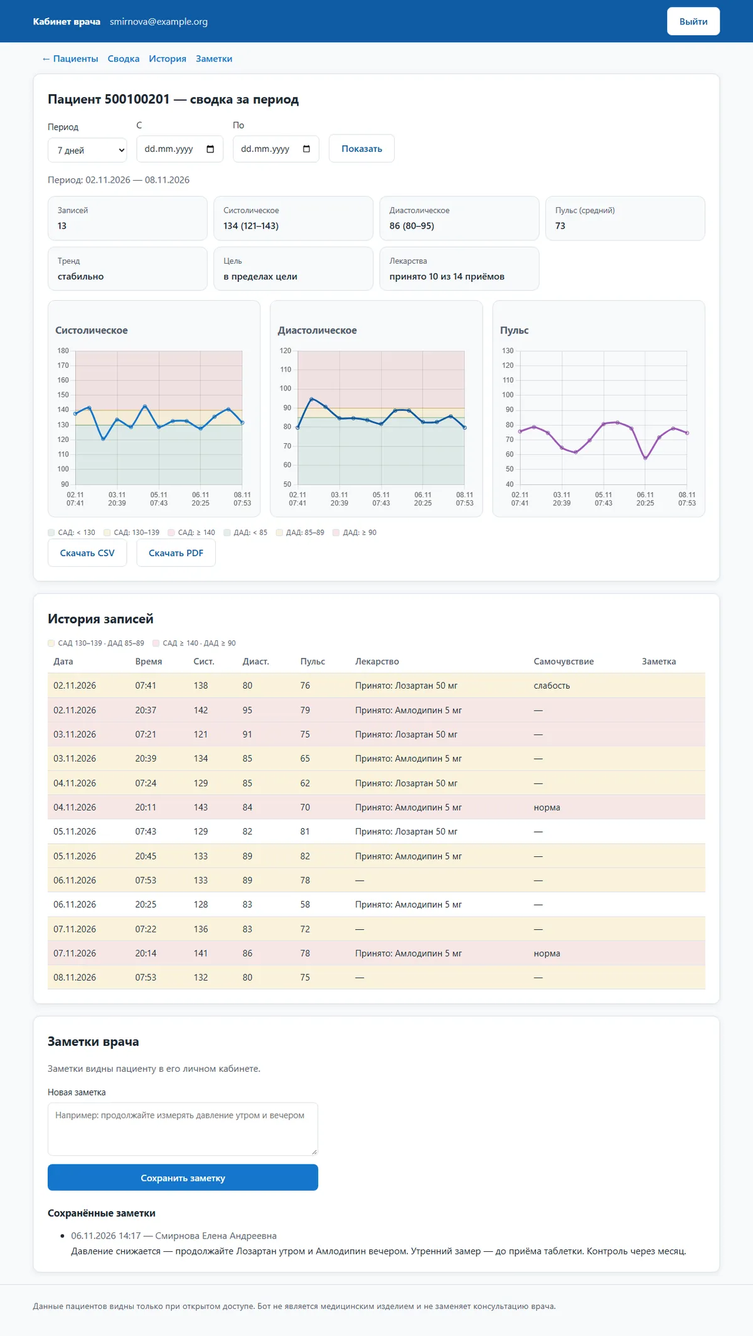
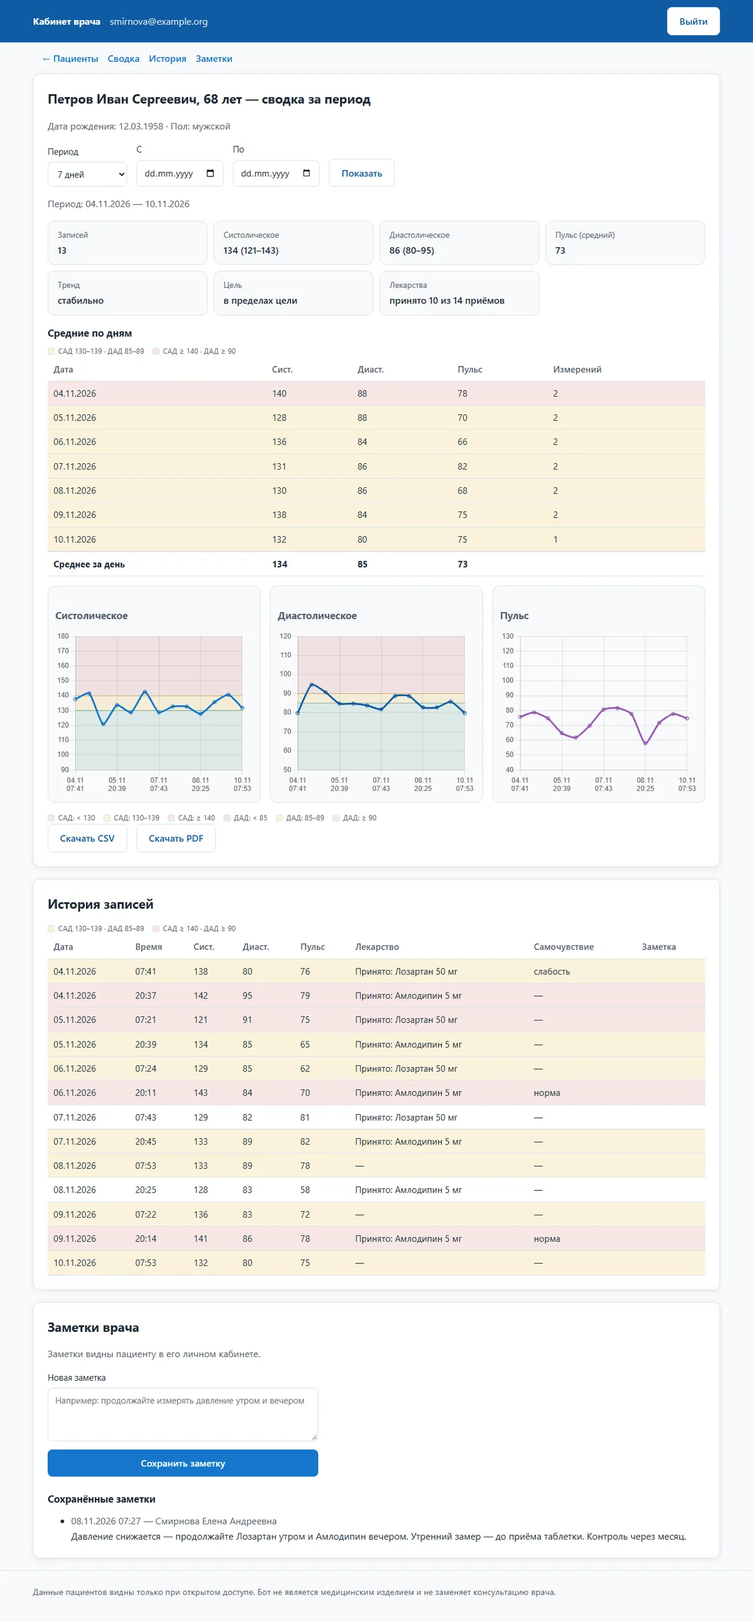
docs(landing): покажи средние по дням и свой период статистики
Три новых кадра: «Средние по дням» и «Свой период» в боте, «Средние по
дням» в личном кабинете. Пересняты статистика бота (кнопка «По дням») и
кадры кабинета врача (ФИО и возраст пациента, таблица по дням, подпись
PDF) — с `?v=0.5.3` против кеша. Руководство: свой период, «По дням»,
средние по дням в кабинете и у врача.

Changed region(s): [[0.0, 0.0, 1.0, 0.9925], [0.74, 0.1551, 0.7708, 0.1861], [0.4625, 0.093, 0.4933, 0.1241]]

diff --git a/web/landing/index.html b/web/landing/index.html
@@ -251,7 +251,7 @@
             <div class="w-12 h-12 rounded-2xl bg-blue-100 text-blue-600 flex items-center justify-center text-2xl mb-5 group-hover:scale-110 transition">📋</div>
             <h3 class="text-lg font-semibold text-slate-900 mb-2">Врач просит дневник, а вести некогда?</h3>
             <p class="text-slate-600 leading-relaxed">
-              Статистика считается сама: средние, минимумы и максимумы, тренд.
+              Статистика считается сама: средние за период и за каждый день, минимумы и максимумы, тренд.
               Экспорт в CSV — на выбор: 7 дней, 30 дней, всё время.
             </p>
           </article>
@@ -310,10 +310,13 @@
           <figure><button type="button" class="screen-open group block w-full text-left cursor-zoom-in focus:outline-none focus-visible:ring-4 focus-visible:ring-blue-300 rounded-[1.75rem]" data-full="img/screens/bot-saved.webp" data-title="Запись сохранена" data-text="Сразу видно, что записалось. Здесь же — исправить, добавить заметку, отметить лекарство и самочувствие."><div class="mx-auto max-w-[300px] rounded-[1.75rem] bg-slate-900 p-2 shadow-xl shadow-slate-900/20 transition duration-300 group-hover:-translate-y-1 group-hover:shadow-2xl"><div class="mx-auto mb-1.5 mt-0.5 h-1.5 w-16 rounded-full bg-slate-700" aria-hidden="true"></div><div class="relative overflow-hidden rounded-[1.25rem] bg-white max-h-[520px]"><img src="img/screens/bot-saved.webp" width="780" height="745" loading="lazy" decoding="async" alt="Запись сохранена" class="w-full h-auto"></div></div></button><figcaption class="mt-4 px-1"><h3 class="font-semibold text-slate-900">Запись сохранена</h3><p class="mt-1 text-sm text-slate-600 leading-relaxed">Сразу видно, что записалось. Здесь же — исправить, добавить заметку, отметить лекарство и самочувствие.</p></figcaption></figure>
           <figure><button type="button" class="screen-open group block w-full text-left cursor-zoom-in focus:outline-none focus-visible:ring-4 focus-visible:ring-blue-300 rounded-[1.75rem]" data-full="img/screens/bot-reminder.webp" data-title="Напоминание по расписанию" data-text="Бот напомнит измерить давление и перечислит лекарства этого времени. Отметить приём — одним нажатием."><div class="mx-auto max-w-[300px] rounded-[1.75rem] bg-slate-900 p-2 shadow-xl shadow-slate-900/20 transition duration-300 group-hover:-translate-y-1 group-hover:shadow-2xl"><div class="mx-auto mb-1.5 mt-0.5 h-1.5 w-16 rounded-full bg-slate-700" aria-hidden="true"></div><div class="relative overflow-hidden rounded-[1.25rem] bg-white max-h-[520px]"><img src="img/screens/bot-reminder.webp" width="780" height="664" loading="lazy" decoding="async" alt="Напоминание по расписанию" class="w-full h-auto"></div></div></button><figcaption class="mt-4 px-1"><h3 class="font-semibold text-slate-900">Напоминание по расписанию</h3><p class="mt-1 text-sm text-slate-600 leading-relaxed">Бот напомнит измерить давление и перечислит лекарства этого времени. Отметить приём — одним нажатием.</p></figcaption></figure>
           <figure><button type="button" class="screen-open group block w-full text-left cursor-zoom-in focus:outline-none focus-visible:ring-4 focus-visible:ring-blue-300 rounded-[1.75rem]" data-full="img/screens/bot-meds.webp" data-title="Какие лекарства приняли" data-text="Отметьте принятые таблетки. Пометка «· сегодня ✓» показывает, что уже принято сегодня."><div class="mx-auto max-w-[300px] rounded-[1.75rem] bg-slate-900 p-2 shadow-xl shadow-slate-900/20 transition duration-300 group-hover:-translate-y-1 group-hover:shadow-2xl"><div class="mx-auto mb-1.5 mt-0.5 h-1.5 w-16 rounded-full bg-slate-700" aria-hidden="true"></div><div class="relative overflow-hidden rounded-[1.25rem] bg-white max-h-[520px]"><img src="img/screens/bot-meds.webp" width="780" height="813" loading="lazy" decoding="async" alt="Какие лекарства приняли" class="w-full h-auto"></div></div></button><figcaption class="mt-4 px-1"><h3 class="font-semibold text-slate-900">Какие лекарства приняли</h3><p class="mt-1 text-sm text-slate-600 leading-relaxed">Отметьте принятые таблетки. Пометка «· сегодня ✓» показывает, что уже принято сегодня.</p></figcaption></figure>
-          <figure><button type="button" class="screen-open group block w-full text-left cursor-zoom-in focus:outline-none focus-visible:ring-4 focus-visible:ring-blue-300 rounded-[1.75rem]" data-full="img/screens/bot-stats.webp?v=0.4.16" data-title="Статистика за 7 дней" data-text="Гистограмма по дням: верхнее давление — вверх, нижнее — вниз, пульс — на линии, цвет — зона давления. Под ней — средние, тренд, цель и приём лекарств."><div class="mx-auto max-w-[300px] rounded-[1.75rem] bg-slate-900 p-2 shadow-xl shadow-slate-900/20 transition duration-300 group-hover:-translate-y-1 group-hover:shadow-2xl"><div class="mx-auto mb-1.5 mt-0.5 h-1.5 w-16 rounded-full bg-slate-700" aria-hidden="true"></div><div class="relative overflow-hidden rounded-[1.25rem] bg-white max-h-[520px]"><img src="img/screens/bot-stats.webp?v=0.4.16" width="780" height="1299" loading="lazy" decoding="async" alt="Статистика за 7 дней" class="w-full h-auto"></div></div></button><figcaption class="mt-4 px-1"><h3 class="font-semibold text-slate-900">Статистика за 7 дней</h3><p class="mt-1 text-sm text-slate-600 leading-relaxed">Гистограмма по дням: верхнее давление — вверх, нижнее — вниз, пульс — на линии, цвет — зона давления. Под ней — средние, тренд, цель и приём лекарств.</p></figcaption></figure>
+          <figure><button type="button" class="screen-open group block w-full text-left cursor-zoom-in focus:outline-none focus-visible:ring-4 focus-visible:ring-blue-300 rounded-[1.75rem]" data-full="img/screens/bot-stats.webp?v=0.5.3" data-title="Статистика за 7 дней" data-text="Гистограмма по дням: верхнее давление — вверх, нижнее — вниз, пульс — на линии, цвет — зона давления. Под ней — средние, тренд, цель и приём лекарств."><div class="mx-auto max-w-[300px] rounded-[1.75rem] bg-slate-900 p-2 shadow-xl shadow-slate-900/20 transition duration-300 group-hover:-translate-y-1 group-hover:shadow-2xl"><div class="mx-auto mb-1.5 mt-0.5 h-1.5 w-16 rounded-full bg-slate-700" aria-hidden="true"></div><div class="relative overflow-hidden rounded-[1.25rem] bg-white max-h-[520px]"><img src="img/screens/bot-stats.webp?v=0.5.3" width="780" height="1380" loading="lazy" decoding="async" alt="Статистика за 7 дней" class="w-full h-auto"></div></div></button><figcaption class="mt-4 px-1"><h3 class="font-semibold text-slate-900">Статистика за 7 дней</h3><p class="mt-1 text-sm text-slate-600 leading-relaxed">Гистограмма по дням: верхнее давление — вверх, нижнее — вниз, пульс — на линии, цвет — зона давления. Под ней — средние, тренд, цель и приём лекарств.</p></figcaption></figure>
+          <figure><button type="button" class="screen-open group block w-full text-left cursor-zoom-in focus:outline-none focus-visible:ring-4 focus-visible:ring-blue-300 rounded-[1.75rem]" data-full="img/screens/bot-daily.webp" data-title="Средние по дням" data-text="Кнопка «По дням» под статистикой: среднее давление и пульс за каждый день, цветной кружок — зона давления, внизу — среднее за день."><div class="mx-auto max-w-[300px] rounded-[1.75rem] bg-slate-900 p-2 shadow-xl shadow-slate-900/20 transition duration-300 group-hover:-translate-y-1 group-hover:shadow-2xl"><div class="mx-auto mb-1.5 mt-0.5 h-1.5 w-16 rounded-full bg-slate-700" aria-hidden="true"></div><div class="relative overflow-hidden rounded-[1.25rem] bg-white max-h-[520px]"><img src="img/screens/bot-daily.webp" width="780" height="624" loading="lazy" decoding="async" alt="Средние по дням" class="w-full h-auto"></div></div></button><figcaption class="mt-4 px-1"><h3 class="font-semibold text-slate-900">Средние по дням</h3><p class="mt-1 text-sm text-slate-600 leading-relaxed">Кнопка «По дням» под статистикой: среднее давление и пульс за каждый день, цветной кружок — зона давления, внизу — среднее за день.</p></figcaption></figure>
+          <figure><button type="button" class="screen-open group block w-full text-left cursor-zoom-in focus:outline-none focus-visible:ring-4 focus-visible:ring-blue-300 rounded-[1.75rem]" data-full="img/screens/bot-calendar.webp" data-title="Свой период" data-text="Кроме 7 и 30 дней — любой период до 31 дня: первый и последний день выбираются в календаре кнопками."><div class="mx-auto max-w-[300px] rounded-[1.75rem] bg-slate-900 p-2 shadow-xl shadow-slate-900/20 transition duration-300 group-hover:-translate-y-1 group-hover:shadow-2xl"><div class="mx-auto mb-1.5 mt-0.5 h-1.5 w-16 rounded-full bg-slate-700" aria-hidden="true"></div><div class="relative overflow-hidden rounded-[1.25rem] bg-white max-h-[520px]"><img src="img/screens/bot-calendar.webp" width="780" height="989" loading="lazy" decoding="async" alt="Свой период" class="w-full h-auto"></div></div></button><figcaption class="mt-4 px-1"><h3 class="font-semibold text-slate-900">Свой период</h3><p class="mt-1 text-sm text-slate-600 leading-relaxed">Кроме 7 и 30 дней — любой период до 31 дня: первый и последний день выбираются в календаре кнопками.</p></figcaption></figure>
         </div>
         <div class="mt-10 grid gap-x-8 gap-y-12 md:grid-cols-2 hidden" role="tabpanel" id="screens-panel-cabinet" aria-labelledby="screens-tab-cabinet" hidden>
           <figure class="md:col-span-2"><button type="button" class="screen-open group block w-full text-left cursor-zoom-in focus:outline-none focus-visible:ring-4 focus-visible:ring-blue-300 rounded-[1.75rem]" data-full="img/screens/cabinet-charts.webp" data-title="Графики с цветными зонами" data-text="Систолическое, диастолическое и пульс — на трёх графиках. Цветные зоны помогают сразу увидеть повышенные значения."><div class="overflow-hidden rounded-2xl border border-slate-200 bg-white shadow-lg shadow-slate-900/10 transition duration-300 group-hover:-translate-y-1 group-hover:shadow-xl"><div class="flex items-center gap-2 border-b border-slate-100 bg-slate-50 px-3 py-2" aria-hidden="true"><span class="h-2.5 w-2.5 rounded-full bg-rose-300"></span><span class="h-2.5 w-2.5 rounded-full bg-amber-300"></span><span class="h-2.5 w-2.5 rounded-full bg-emerald-300"></span><span class="ml-2 flex-1 truncate rounded-md bg-white border border-slate-200 px-2 py-0.5 text-[11px] text-slate-400">🔒 cabinet.electroman.by</span></div><div class="relative overflow-hidden max-h-[820px] bg-white"><img src="img/screens/cabinet-charts.webp" width="1168" height="863" loading="lazy" decoding="async" alt="Графики с цветными зонами" class="w-full h-auto"></div></div></button><figcaption class="mt-4 px-1"><h3 class="font-semibold text-slate-900">Графики с цветными зонами</h3><p class="mt-1 text-sm text-slate-600 leading-relaxed">Систолическое, диастолическое и пульс — на трёх графиках. Цветные зоны помогают сразу увидеть повышенные значения.</p></figcaption></figure>
+          <figure class="md:col-span-2"><button type="button" class="screen-open group block w-full text-left cursor-zoom-in focus:outline-none focus-visible:ring-4 focus-visible:ring-blue-300 rounded-[1.75rem]" data-full="img/screens/cabinet-daily.webp" data-title="Средние по дням" data-text="Каждый день периода отдельной строкой: дни без замеров видны сразу, повышенные значения подсвечены. Внизу — среднее за день."><div class="overflow-hidden rounded-2xl border border-slate-200 bg-white shadow-lg shadow-slate-900/10 transition duration-300 group-hover:-translate-y-1 group-hover:shadow-xl"><div class="flex items-center gap-2 border-b border-slate-100 bg-slate-50 px-3 py-2" aria-hidden="true"><span class="h-2.5 w-2.5 rounded-full bg-rose-300"></span><span class="h-2.5 w-2.5 rounded-full bg-amber-300"></span><span class="h-2.5 w-2.5 rounded-full bg-emerald-300"></span><span class="ml-2 flex-1 truncate rounded-md bg-white border border-slate-200 px-2 py-0.5 text-[11px] text-slate-400">🔒 cabinet.electroman.by</span></div><div class="relative overflow-hidden max-h-[820px] bg-white"><img src="img/screens/cabinet-daily.webp" width="1118" height="428" loading="lazy" decoding="async" alt="Средние по дням" class="w-full h-auto"></div></div></button><figcaption class="mt-4 px-1"><h3 class="font-semibold text-slate-900">Средние по дням</h3><p class="mt-1 text-sm text-slate-600 leading-relaxed">Каждый день периода отдельной строкой: дни без замеров видны сразу, повышенные значения подсвечены. Внизу — среднее за день.</p></figcaption></figure>
           <figure class="md:col-span-2"><button type="button" class="screen-open group block w-full text-left cursor-zoom-in focus:outline-none focus-visible:ring-4 focus-visible:ring-blue-300 rounded-[1.75rem]" data-full="img/screens/cabinet-history.webp" data-title="История записей" data-text="Повышенные значения подсвечены жёлтым и красным. Рядом — принятые лекарства и самочувствие."><div class="overflow-hidden rounded-2xl border border-slate-200 bg-white shadow-lg shadow-slate-900/10 transition duration-300 group-hover:-translate-y-1 group-hover:shadow-xl"><div class="flex items-center gap-2 border-b border-slate-100 bg-slate-50 px-3 py-2" aria-hidden="true"><span class="h-2.5 w-2.5 rounded-full bg-rose-300"></span><span class="h-2.5 w-2.5 rounded-full bg-amber-300"></span><span class="h-2.5 w-2.5 rounded-full bg-emerald-300"></span><span class="ml-2 flex-1 truncate rounded-md bg-white border border-slate-200 px-2 py-0.5 text-[11px] text-slate-400">🔒 cabinet.electroman.by</span></div><div class="relative overflow-hidden max-h-[820px] bg-white"><img src="img/screens/cabinet-history.webp" width="1200" height="772" loading="lazy" decoding="async" alt="История записей" class="w-full h-auto"></div></div></button><figcaption class="mt-4 px-1"><h3 class="font-semibold text-slate-900">История записей</h3><p class="mt-1 text-sm text-slate-600 leading-relaxed">Повышенные значения подсвечены жёлтым и красным. Рядом — принятые лекарства и самочувствие.</p></figcaption></figure>
           <figure class=""><button type="button" class="screen-open group block w-full text-left cursor-zoom-in focus:outline-none focus-visible:ring-4 focus-visible:ring-blue-300 rounded-[1.75rem]" data-full="img/screens/cabinet-add-form.webp" data-title="Добавить измерение" data-text="Запись за любую прошедшую дату. Отметьте «Принял лекарство» и выберите, какие именно: лекарства ближайшего по времени приёма отмечены заранее."><div class="overflow-hidden rounded-2xl border border-slate-200 bg-white shadow-lg shadow-slate-900/10 transition duration-300 group-hover:-translate-y-1 group-hover:shadow-xl"><div class="flex items-center gap-2 border-b border-slate-100 bg-slate-50 px-3 py-2" aria-hidden="true"><span class="h-2.5 w-2.5 rounded-full bg-rose-300"></span><span class="h-2.5 w-2.5 rounded-full bg-amber-300"></span><span class="h-2.5 w-2.5 rounded-full bg-emerald-300"></span><span class="ml-2 flex-1 truncate rounded-md bg-white border border-slate-200 px-2 py-0.5 text-[11px] text-slate-400">🔒 cabinet.electroman.by</span></div><div class="relative overflow-hidden max-h-[440px] bg-white"><img src="img/screens/cabinet-add-form.webp" width="640" height="784" loading="lazy" decoding="async" alt="Добавить измерение" class="w-full h-auto"><div class="pointer-events-none absolute inset-x-0 bottom-0 h-16 bg-gradient-to-t from-white to-transparent" aria-hidden="true"></div></div></div></button><figcaption class="mt-4 px-1"><h3 class="font-semibold text-slate-900">Добавить измерение</h3><p class="mt-1 text-sm text-slate-600 leading-relaxed">Запись за любую прошедшую дату. Отметьте «Принял лекарство» и выберите, какие именно: лекарства ближайшего по времени приёма отмечены заранее.</p></figcaption></figure>
           <figure class=""><button type="button" class="screen-open group block w-full text-left cursor-zoom-in focus:outline-none focus-visible:ring-4 focus-visible:ring-blue-300 rounded-[1.75rem]" data-full="img/screens/cabinet-medications.webp" data-title="Лекарства" data-text="Список с дозировкой и временем приёма: утро, обед, вечер или «на случай кризиса»."><div class="overflow-hidden rounded-2xl border border-slate-200 bg-white shadow-lg shadow-slate-900/10 transition duration-300 group-hover:-translate-y-1 group-hover:shadow-xl"><div class="flex items-center gap-2 border-b border-slate-100 bg-slate-50 px-3 py-2" aria-hidden="true"><span class="h-2.5 w-2.5 rounded-full bg-rose-300"></span><span class="h-2.5 w-2.5 rounded-full bg-amber-300"></span><span class="h-2.5 w-2.5 rounded-full bg-emerald-300"></span><span class="ml-2 flex-1 truncate rounded-md bg-white border border-slate-200 px-2 py-0.5 text-[11px] text-slate-400">🔒 cabinet.electroman.by</span></div><div class="relative overflow-hidden max-h-[440px] bg-white"><img src="img/screens/cabinet-medications.webp" width="1168" height="701" loading="lazy" decoding="async" alt="Лекарства" class="w-full h-auto"></div></div></button><figcaption class="mt-4 px-1"><h3 class="font-semibold text-slate-900">Лекарства</h3><p class="mt-1 text-sm text-slate-600 leading-relaxed">Список с дозировкой и временем приёма: утро, обед, вечер или «на случай кризиса».</p></figcaption></figure>
@@ -321,9 +324,9 @@
           <figure><button type="button" class="screen-open group block w-full text-left cursor-zoom-in focus:outline-none focus-visible:ring-4 focus-visible:ring-blue-300 rounded-[1.75rem]" data-full="img/screens/cabinet-history-mobile.webp" data-title="С телефона" data-text="Кабинет удобен и на смартфоне: история записей — карточками."><div class="mx-auto max-w-[300px] rounded-[1.75rem] bg-slate-900 p-2 shadow-xl shadow-slate-900/20 transition duration-300 group-hover:-translate-y-1 group-hover:shadow-2xl"><div class="mx-auto mb-1.5 mt-0.5 h-1.5 w-16 rounded-full bg-slate-700" aria-hidden="true"></div><div class="relative overflow-hidden rounded-[1.25rem] bg-white max-h-[520px]"><img src="img/screens/cabinet-history-mobile.webp" width="780" height="2428" loading="lazy" decoding="async" alt="С телефона" class="w-full h-auto"><div class="pointer-events-none absolute inset-x-0 bottom-0 h-16 bg-gradient-to-t from-white to-transparent" aria-hidden="true"></div></div></div></button><figcaption class="mt-4 px-1"><h3 class="font-semibold text-slate-900">С телефона</h3><p class="mt-1 text-sm text-slate-600 leading-relaxed">Кабинет удобен и на смартфоне: история записей — карточками.</p></figcaption></figure>
         </div>
         <div class="mt-10 grid gap-x-8 gap-y-12 md:grid-cols-2 hidden" role="tabpanel" id="screens-panel-doctor" aria-labelledby="screens-tab-doctor" hidden>
-          <figure class=""><button type="button" class="screen-open group block w-full text-left cursor-zoom-in focus:outline-none focus-visible:ring-4 focus-visible:ring-blue-300 rounded-[1.75rem]" data-full="img/screens/doctor-list.webp" data-title="Пациенты" data-text="Врач видит только тех, кто сам открыл ему доступ."><div class="overflow-hidden rounded-2xl border border-slate-200 bg-white shadow-lg shadow-slate-900/10 transition duration-300 group-hover:-translate-y-1 group-hover:shadow-xl"><div class="flex items-center gap-2 border-b border-slate-100 bg-slate-50 px-3 py-2" aria-hidden="true"><span class="h-2.5 w-2.5 rounded-full bg-rose-300"></span><span class="h-2.5 w-2.5 rounded-full bg-amber-300"></span><span class="h-2.5 w-2.5 rounded-full bg-emerald-300"></span><span class="ml-2 flex-1 truncate rounded-md bg-white border border-slate-200 px-2 py-0.5 text-[11px] text-slate-400">🔒 cabinet.electroman.by</span></div><div class="overflow-hidden bg-white"><img src="img/screens/doctor-list.webp" width="1168" height="153" loading="lazy" decoding="async" alt="Пациенты" class="w-full h-auto"></div></div></button><figcaption class="mt-4 px-1"><h3 class="font-semibold text-slate-900">Пациенты</h3><p class="mt-1 text-sm text-slate-600 leading-relaxed">Врач видит только тех, кто сам открыл ему доступ.</p></figcaption></figure>
-          <figure class="md:col-span-2"><button type="button" class="screen-open group block w-full text-left cursor-zoom-in focus:outline-none focus-visible:ring-4 focus-visible:ring-blue-300 rounded-[1.75rem]" data-full="img/screens/doctor-card.webp" data-title="Карточка пациента" data-text="Сводка, графики, история с подсветкой и заметки врача — пациент видит их в своём кабинете. Менять записи пациента врач не может."><div class="overflow-hidden rounded-2xl border border-slate-200 bg-white shadow-lg shadow-slate-900/10 transition duration-300 group-hover:-translate-y-1 group-hover:shadow-xl"><div class="flex items-center gap-2 border-b border-slate-100 bg-slate-50 px-3 py-2" aria-hidden="true"><span class="h-2.5 w-2.5 rounded-full bg-rose-300"></span><span class="h-2.5 w-2.5 rounded-full bg-amber-300"></span><span class="h-2.5 w-2.5 rounded-full bg-emerald-300"></span><span class="ml-2 flex-1 truncate rounded-md bg-white border border-slate-200 px-2 py-0.5 text-[11px] text-slate-400">🔒 cabinet.electroman.by</span></div><div class="relative overflow-hidden max-h-[820px] bg-white"><img src="img/screens/doctor-card.webp" width="1200" height="2128" loading="lazy" decoding="async" alt="Карточка пациента" class="w-full h-auto"><div class="pointer-events-none absolute inset-x-0 bottom-0 h-16 bg-gradient-to-t from-white to-transparent" aria-hidden="true"></div></div></div></button><figcaption class="mt-4 px-1"><h3 class="font-semibold text-slate-900">Карточка пациента</h3><p class="mt-1 text-sm text-slate-600 leading-relaxed">Сводка, графики, история с подсветкой и заметки врача — пациент видит их в своём кабинете. Менять записи пациента врач не может.</p></figcaption></figure>
-          <figure class=""><button type="button" class="screen-open group block w-full text-left cursor-zoom-in focus:outline-none focus-visible:ring-4 focus-visible:ring-blue-300 rounded-[1.75rem]" data-full="img/screens/doctor-pdf.webp" data-title="PDF-отчёт" data-text="Средние значения и таблица измерений за период — распечатать или приложить к карте."><div class="overflow-hidden rounded-2xl border border-slate-200 bg-white shadow-lg shadow-slate-900/10 transition duration-300 group-hover:-translate-y-1 group-hover:shadow-xl"><div class="flex items-center gap-2 border-b border-slate-100 bg-slate-50 px-3 py-2" aria-hidden="true"><span class="h-2.5 w-2.5 rounded-full bg-rose-300"></span><span class="h-2.5 w-2.5 rounded-full bg-amber-300"></span><span class="h-2.5 w-2.5 rounded-full bg-emerald-300"></span><span class="ml-2 flex-1 truncate rounded-md bg-white border border-slate-200 px-2 py-0.5 text-[11px] text-slate-400">🔒 cabinet.electroman.by</span></div><div class="relative overflow-hidden max-h-[440px] bg-white"><img src="img/screens/doctor-pdf.webp" width="1200" height="849" loading="lazy" decoding="async" alt="PDF-отчёт" class="w-full h-auto"><div class="pointer-events-none absolute inset-x-0 bottom-0 h-16 bg-gradient-to-t from-white to-transparent" aria-hidden="true"></div></div></div></button><figcaption class="mt-4 px-1"><h3 class="font-semibold text-slate-900">PDF-отчёт</h3><p class="mt-1 text-sm text-slate-600 leading-relaxed">Средние значения и таблица измерений за период — распечатать или приложить к карте.</p></figcaption></figure>
+          <figure class=""><button type="button" class="screen-open group block w-full text-left cursor-zoom-in focus:outline-none focus-visible:ring-4 focus-visible:ring-blue-300 rounded-[1.75rem]" data-full="img/screens/doctor-list.webp?v=0.5.3" data-title="Пациенты" data-text="Врач видит только тех, кто сам открыл ему доступ, — с ФИО, датой рождения и возрастом."><div class="overflow-hidden rounded-2xl border border-slate-200 bg-white shadow-lg shadow-slate-900/10 transition duration-300 group-hover:-translate-y-1 group-hover:shadow-xl"><div class="flex items-center gap-2 border-b border-slate-100 bg-slate-50 px-3 py-2" aria-hidden="true"><span class="h-2.5 w-2.5 rounded-full bg-rose-300"></span><span class="h-2.5 w-2.5 rounded-full bg-amber-300"></span><span class="h-2.5 w-2.5 rounded-full bg-emerald-300"></span><span class="ml-2 flex-1 truncate rounded-md bg-white border border-slate-200 px-2 py-0.5 text-[11px] text-slate-400">🔒 cabinet.electroman.by</span></div><div class="overflow-hidden bg-white"><img src="img/screens/doctor-list.webp?v=0.5.3" width="1168" height="178" loading="lazy" decoding="async" alt="Пациенты" class="w-full h-auto"></div></div></button><figcaption class="mt-4 px-1"><h3 class="font-semibold text-slate-900">Пациенты</h3><p class="mt-1 text-sm text-slate-600 leading-relaxed">Врач видит только тех, кто сам открыл ему доступ, — с ФИО, датой рождения и возрастом.</p></figcaption></figure>
+          <figure class="md:col-span-2"><button type="button" class="screen-open group block w-full text-left cursor-zoom-in focus:outline-none focus-visible:ring-4 focus-visible:ring-blue-300 rounded-[1.75rem]" data-full="img/screens/doctor-card.webp?v=0.5.3" data-title="Карточка пациента" data-text="Сводка, средние по дням, графики, история с подсветкой и заметки врача — пациент видит их в своём кабинете. Менять записи пациента врач не может."><div class="overflow-hidden rounded-2xl border border-slate-200 bg-white shadow-lg shadow-slate-900/10 transition duration-300 group-hover:-translate-y-1 group-hover:shadow-xl"><div class="flex items-center gap-2 border-b border-slate-100 bg-slate-50 px-3 py-2" aria-hidden="true"><span class="h-2.5 w-2.5 rounded-full bg-rose-300"></span><span class="h-2.5 w-2.5 rounded-full bg-amber-300"></span><span class="h-2.5 w-2.5 rounded-full bg-emerald-300"></span><span class="ml-2 flex-1 truncate rounded-md bg-white border border-slate-200 px-2 py-0.5 text-[11px] text-slate-400">🔒 cabinet.electroman.by</span></div><div class="relative overflow-hidden max-h-[820px] bg-white"><img src="img/screens/doctor-card.webp?v=0.5.3" width="1200" height="2584" loading="lazy" decoding="async" alt="Карточка пациента" class="w-full h-auto"><div class="pointer-events-none absolute inset-x-0 bottom-0 h-16 bg-gradient-to-t from-white to-transparent" aria-hidden="true"></div></div></div></button><figcaption class="mt-4 px-1"><h3 class="font-semibold text-slate-900">Карточка пациента</h3><p class="mt-1 text-sm text-slate-600 leading-relaxed">Сводка, средние по дням, графики, история с подсветкой и заметки врача — пациент видит их в своём кабинете. Менять записи пациента врач не может.</p></figcaption></figure>
+          <figure class=""><button type="button" class="screen-open group block w-full text-left cursor-zoom-in focus:outline-none focus-visible:ring-4 focus-visible:ring-blue-300 rounded-[1.75rem]" data-full="img/screens/doctor-pdf.webp?v=0.5.3" data-title="PDF-отчёт" data-text="Средние значения и таблица измерений за период — распечатать или приложить к карте."><div class="overflow-hidden rounded-2xl border border-slate-200 bg-white shadow-lg shadow-slate-900/10 transition duration-300 group-hover:-translate-y-1 group-hover:shadow-xl"><div class="flex items-center gap-2 border-b border-slate-100 bg-slate-50 px-3 py-2" aria-hidden="true"><span class="h-2.5 w-2.5 rounded-full bg-rose-300"></span><span class="h-2.5 w-2.5 rounded-full bg-amber-300"></span><span class="h-2.5 w-2.5 rounded-full bg-emerald-300"></span><span class="ml-2 flex-1 truncate rounded-md bg-white border border-slate-200 px-2 py-0.5 text-[11px] text-slate-400">🔒 cabinet.electroman.by</span></div><div class="relative overflow-hidden max-h-[440px] bg-white"><img src="img/screens/doctor-pdf.webp?v=0.5.3" width="1200" height="849" loading="lazy" decoding="async" alt="PDF-отчёт" class="w-full h-auto"><div class="pointer-events-none absolute inset-x-0 bottom-0 h-16 bg-gradient-to-t from-white to-transparent" aria-hidden="true"></div></div></div></button><figcaption class="mt-4 px-1"><h3 class="font-semibold text-slate-900">PDF-отчёт</h3><p class="mt-1 text-sm text-slate-600 leading-relaxed">Средние значения и таблица измерений за период — распечатать или приложить к карте.</p></figcaption></figure>
           <figure><button type="button" class="screen-open group block w-full text-left cursor-zoom-in focus:outline-none focus-visible:ring-4 focus-visible:ring-blue-300 rounded-[1.75rem]" data-full="img/screens/doctor-card-mobile.webp" data-title="Кабинет врача с телефона" data-text="Сводку и графики удобно смотреть со смартфона."><div class="mx-auto max-w-[300px] rounded-[1.75rem] bg-slate-900 p-2 shadow-xl shadow-slate-900/20 transition duration-300 group-hover:-translate-y-1 group-hover:shadow-2xl"><div class="mx-auto mb-1.5 mt-0.5 h-1.5 w-16 rounded-full bg-slate-700" aria-hidden="true"></div><div class="relative overflow-hidden rounded-[1.25rem] bg-white max-h-[520px]"><img src="img/screens/doctor-card-mobile.webp" width="780" height="1829" loading="lazy" decoding="async" alt="Кабинет врача с телефона" class="w-full h-auto"><div class="pointer-events-none absolute inset-x-0 bottom-0 h-16 bg-gradient-to-t from-white to-transparent" aria-hidden="true"></div></div></div></button><figcaption class="mt-4 px-1"><h3 class="font-semibold text-slate-900">Кабинет врача с телефона</h3><p class="mt-1 text-sm text-slate-600 leading-relaxed">Сводку и графики удобно смотреть со смартфона.</p></figcaption></figure>
         </div>
         <p class="mt-10 text-center text-sm text-slate-500">Нажмите на экран, чтобы рассмотреть целиком.</p>
@@ -577,7 +580,8 @@
             <div class="px-6 pb-6 space-y-3 text-slate-600 leading-relaxed">
               <ul class="space-y-2">
                 <li class="flex gap-2.5"><span class="text-blue-600 font-bold mt-0.5" aria-hidden="true">•</span><span><b class="text-slate-800">«Дневник за сегодня»</b> — все записи за день: время, давление, пульс, отметки о лекарствах, самочувствие и заметки.</span></li>
-                <li class="flex gap-2.5"><span class="text-blue-600 font-bold mt-0.5" aria-hidden="true">•</span><span><b class="text-slate-800">«Статистика»</b> — за 7 или 30 дней: гистограмма по дням (верхнее давление — вверх, нижнее — вниз, пульс — на средней линии, цвет — зона давления) и под ней сводка: среднее давление, минимум и максимум, количество измерений, тренд (если измерений меньше четырёх — «мало данных для тренда»), сравнение с целью и приём лекарств.</span></li>
+                <li class="flex gap-2.5"><span class="text-blue-600 font-bold mt-0.5" aria-hidden="true">•</span><span><b class="text-slate-800">«Статистика»</b> — за 7 дней, 30 дней или свой период («📆 Свой период»: до 31 дня, первый и последний день выбираются в календаре): гистограмма по дням (верхнее давление — вверх, нижнее — вниз, пульс — на средней линии, цвет — зона давления) и под ней сводка: среднее давление, минимум и максимум, количество измерений, тренд (если измерений меньше четырёх — «мало данных для тренда»), сравнение с целью и приём лекарств.</span></li>
+                <li class="flex gap-2.5"><span class="text-blue-600 font-bold mt-0.5" aria-hidden="true">•</span><span><b class="text-slate-800">«📅 По дням»</b> — кнопка под статистикой: среднее давление и пульс за каждый день с цветной отметкой зоны и итог «Среднее за день» — среднее из дневных средних, где каждый день весит одинаково, сколько бы раз вы ни мерили.</span></li>
                 <li class="flex gap-2.5"><span class="text-blue-600 font-bold mt-0.5" aria-hidden="true">•</span><span><b class="text-slate-800">«Экспорт CSV»</b> — файл за 7 дней, 30 дней или всё время (не больше 5000 записей: если их больше, бот предложит выбрать 7 или 30 дней). Открывается в Excel: можно показать врачу, распечатать или приложить к письму. Отдельным файлом выгружаются и приёмы лекарств.</span></li>
                 <li class="flex gap-2.5"><span class="text-blue-600 font-bold mt-0.5" aria-hidden="true">•</span><span><b class="text-slate-800">«Экспорт PDF»</b> — отчёт за 7 дней, 30 дней или всё время: сводка и таблица записей с цветом зон — удобно распечатать для врача.</span></li>
               </ul>
@@ -608,7 +612,7 @@
                   Войти в личный кабинет
                 </a>
               </p>
-              <p>Внутри кабинета: история записей с фильтрами по дате, график давления, сводка и экспорт CSV, управление лекарствами и настройки напоминаний. На графиках сводки — цветные зоны: зелёная (норма), жёлтая (повышенное) и красная (высокое). Это ориентир, а не диагноз: норму определяет врач.</p>
+              <p>Внутри кабинета: история записей с фильтрами по дате (7 дней, 30 дней или свой период), график давления, сводка со средними по дням и экспорт CSV и PDF, управление лекарствами и настройки напоминаний. На графиках сводки — цветные зоны: зелёная (норма), жёлтая (повышенное) и красная (высокое). Это ориентир, а не диагноз: норму определяет врач.</p>
             </div>
           </details>
 
@@ -626,7 +630,7 @@
               <ul class="space-y-2">
                 <li class="flex gap-2.5"><span class="text-blue-600 font-bold mt-0.5" aria-hidden="true">•</span><span>Перед приглашением врача бот попросит согласие на то, чтобы врач видел ваши записи, и ваши ФИО, дату рождения и пол — по ним врач узнает вас в своём кабинете. Эти данные видит только приглашённый врач.</span></li>
                 <li class="flex gap-2.5"><span class="text-blue-600 font-bold mt-0.5" aria-hidden="true">•</span><span>Нажмите <b class="text-slate-800">«Отправить отчет»</b> в меню бота. Бот соберёт ссылку на ваши данные — перешлите её доктору.</span></li>
-                <li class="flex gap-2.5"><span class="text-blue-600 font-bold mt-0.5" aria-hidden="true">•</span><span>Врач увидит график, историю измерений и статистику — <b class="text-slate-800">только для чтения</b>. Изменить ваши записи он не может.</span></li>
+                <li class="flex gap-2.5"><span class="text-blue-600 font-bold mt-0.5" aria-hidden="true">•</span><span>Врач увидит график, историю измерений, статистику и средние по дням — <b class="text-slate-800">только для чтения</b>. Изменить ваши записи он не может.</span></li>
                 <li class="flex gap-2.5"><span class="text-blue-600 font-bold mt-0.5" aria-hidden="true">•</span><span>Врач может выгрузить данные в CSV или PDF — например, чтобы приложить к медкарте.</span></li>
                 <li class="flex gap-2.5"><span class="text-blue-600 font-bold mt-0.5" aria-hidden="true">•</span><span>Врач может оставить комментарий или рекомендацию — вы увидите её в личном кабинете.</span></li>
                 <li class="flex gap-2.5"><span class="text-blue-600 font-bold mt-0.5" aria-hidden="true">•</span><span>Доступ даётся только с вашего согласия и действует, пока вы сами его не отозвали. Отозвать — в «Настройках» → «Мой врач» → «Отозвать доступ».</span></li>

diff --git a/tests/test_landing.py b/tests/test_landing.py
@@ -151,7 +151,8 @@ class TestManualSync:
 
 
 #: Кадры секции «Как это выглядит» и их заголовки — утверждены дословно
-#: (doc/LANDING-SCREENS-QUESTIONS.md, третий раунд).
+#: (doc/LANDING-SCREENS-QUESTIONS.md, третий раунд); средние по дням и свой
+#: период — 0.5.3.
 SCREENS = {
     "bot-menu": "Главное меню",
     "bot-keypad": "Ввод как на калькуляторе",
@@ -159,7 +160,10 @@ SCREENS = {
     "bot-reminder": "Напоминание по расписанию",
     "bot-meds": "Какие лекарства приняли",
     "bot-stats": "Статистика за 7 дней",
+    "bot-daily": "Средние по дням",
+    "bot-calendar": "Свой период",
     "cabinet-charts": "Графики с цветными зонами",
+    "cabinet-daily": "Средние по дням",
     "cabinet-history": "История записей",
     "cabinet-add-form": "Добавить измерение",
     "cabinet-medications": "Лекарства",

diff --git a/doc/SPEC.md b/doc/SPEC.md
@@ -948,7 +948,7 @@ SemVer (`MAJOR.MINOR.PATCH`): MAJOR — ломающие изменения, MIN
 - **Вход в личный кабинет**: ссылка «Войти в личный кабинет» на `/login` веб-кабинета (вход e-mail + пароль) в трёх местах: шапка (компактная кнопка рядом с «Открыть в Telegram»), финальный CTA и раздел «Личный кабинет» руководства. Адаптивность шапки: <640px — компактные кнопки и только иконка логотипа; 640–1023px — название логотипа и кнопки, навигация скрыта; 1024–1279px — иконка логотипа, навигация и кнопки; ≥1280px — полный вид. Переполнения шапки и горизонтального скролла нет ни на одной ширине.
 - **Проблема / решение**: 3 коротких блока — «Забываете мерить?», «Не помните, приняли ли таблетку?», «Врач просит дневник, а вести некогда?».
 - **Как это работает**: 3 шага с иконками (запись → напоминания → статистика).
-- **Как это выглядит** (якорь `#screens`, сразу после «Как это работает»): вкладки «Telegram-бот» / «Личный кабинет» / «Кабинет врача» со скриншотами и подписями. Бот (6 кадров, Telegram Web, рамка телефона): главное меню, калькулятор с вводом, сводка после сохранения, напоминание с перечнем лекарств, мультивыбор лекарств («· сегодня ✓»), статистика за 7 дней. Личный кабинет (5, рамка браузера): три графика с зонами, история с подсветкой зон, форма «Добавить измерение» с выбором лекарств, управление лекарствами, импорт CSV с отчётом. Кабинет врача (3): список пациентов, карточка пациента, первая страница PDF-отчёта. Плюс мобильные кадры (390 px): история ЛК и карточка пациента у врача. Увеличение по клику — минимальный JS (`script.js`). Картинки — `web/landing/img/screens/*.webp` (`loading="lazy"`, заданные `width`/`height`, `alt`). Подписи — утверждённые дословно (`doc/LANDING-SCREENS-QUESTIONS.md`). Снимаются скриптом `qa/screenshots/shot_landing.py` на локальном стенде с вымышленными данными (отдельная демо-БД с «test-stand» в имени, тестовый бот); в кадр бота — только область диалога (без списка чатов и профиля аккаунта).
+- **Как это выглядит** (якорь `#screens`, сразу после «Как это работает»): вкладки «Telegram-бот» / «Личный кабинет» / «Кабинет врача» со скриншотами и подписями. Бот (8 кадров, Telegram Web, рамка телефона): главное меню, калькулятор с вводом, сводка после сохранения, напоминание с перечнем лекарств, мультивыбор лекарств («· сегодня ✓»), статистика за 7 дней, «По дням» и календарь своего периода (0.5.3). Личный кабинет (6, рамка браузера): три графика с зонами, «Средние по дням» (0.5.3), история с подсветкой зон, форма «Добавить измерение» с выбором лекарств, управление лекарствами, импорт CSV с отчётом. Кабинет врача (3): список пациентов, карточка пациента, первая страница PDF-отчёта. Плюс мобильные кадры (390 px): история ЛК и карточка пациента у врача. Увеличение по клику — минимальный JS (`script.js`). Картинки — `web/landing/img/screens/*.webp` (`loading="lazy"`, заданные `width`/`height`, `alt`). Подписи — утверждённые дословно (`doc/LANDING-SCREENS-QUESTIONS.md`). Снимаются скриптом `qa/screenshots/shot_landing.py` на локальном стенде с вымышленными данными (отдельная демо-БД с «test-stand» в имени, тестовый бот); в кадр бота — только область диалога (без списка чатов и профиля аккаунта).
 - **Сигналы доверия**: «Бесплатно, без рекламы», «Записи видите только вы и врач, которого вы пригласили», «Сделано одним разработчиком» (до 0.5.0 — «Данные хранятся локально на нашем сервере, не передаются третьим лицам»: неверно — сервер в Германии, Telegram, врач).
 - **Секция «Поддержать проект»** (якорь `#support`):
   - **Информация об авторе**: Старинский Олег Григорьевич, `info@electroman.by`, `@ElectroManBY`; сообщество бота в Telegram — строка «Сообщество: `@my_bp_diary` — новости, подсказки, вопросы и идеи» (ссылка `https://t.me/my_bp_diary`).
